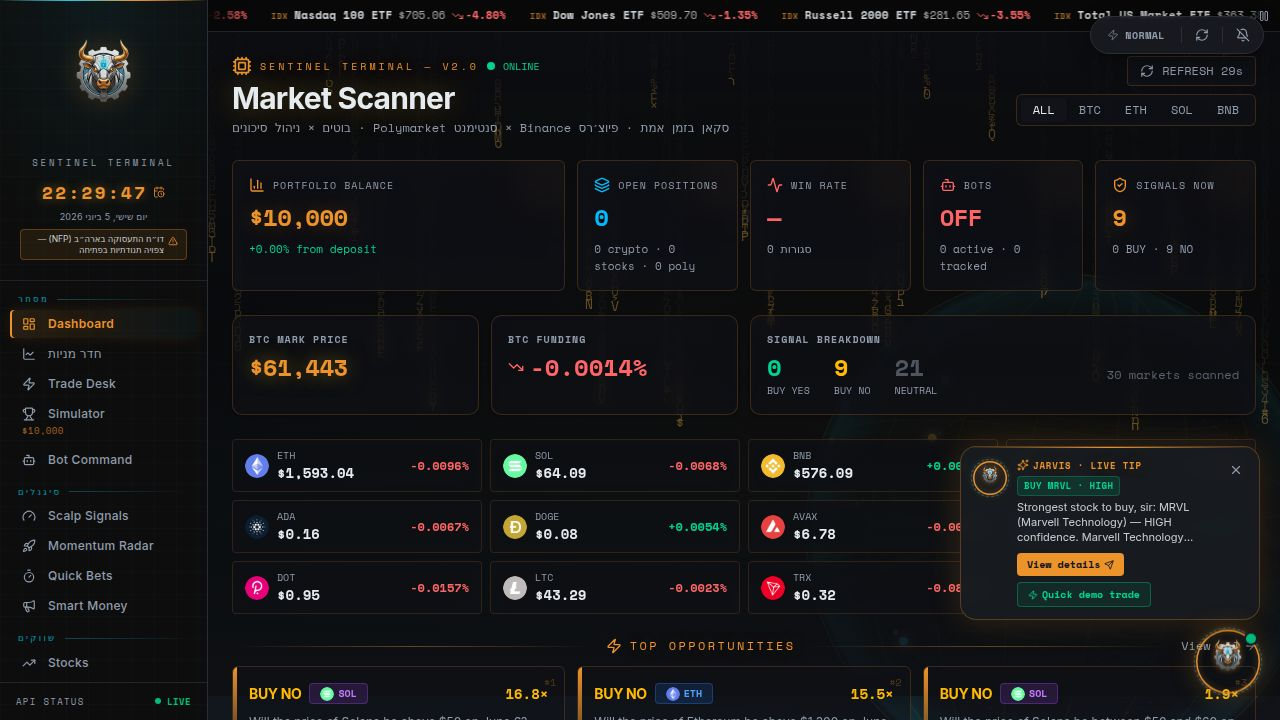
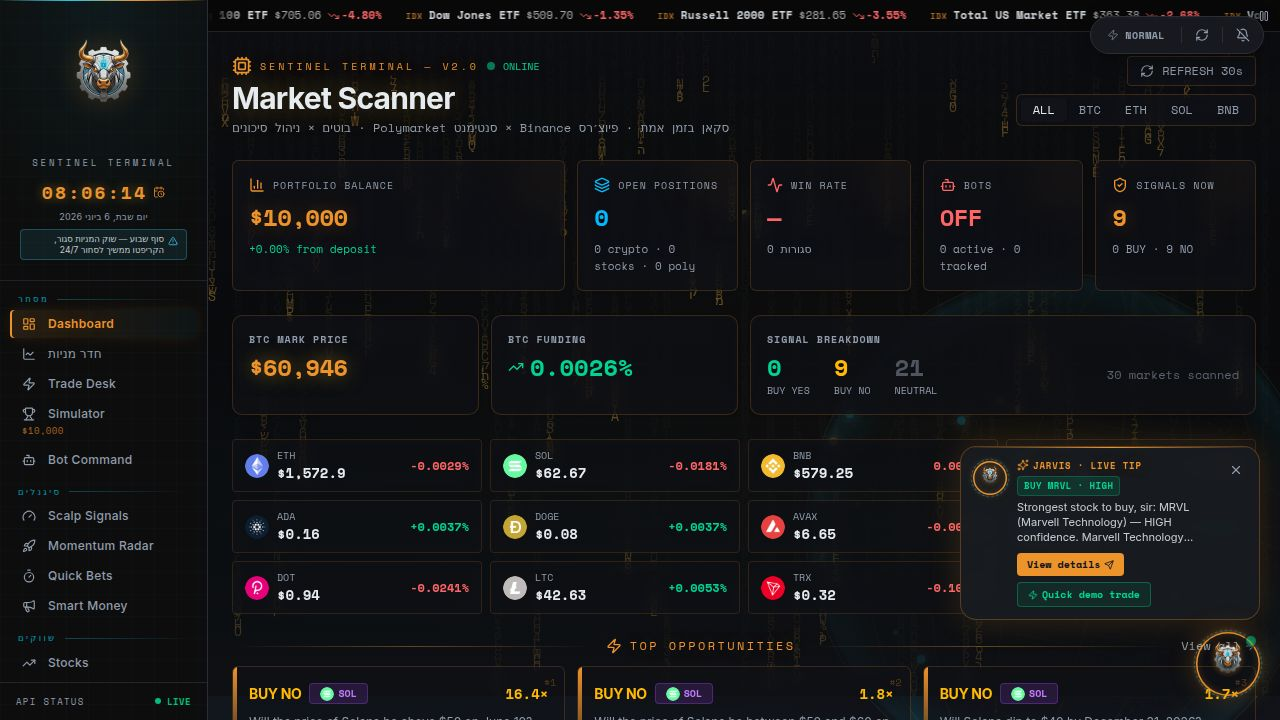
Add Auto-Pilot functionality and refine light-speed cancel behavior
Introduce Auto-Pilot mode with a master toggle to automate trading decisions and adjust the "cancel light-speed" feature to stop boost mode without disarming bots.

Replit-Commit-Author: Agent
Replit-Commit-Session-Id: bf375281-ba89-49a9-b75c-c68e906c7744
Replit-Commit-Checkpoint-Type: full_checkpoint
Replit-Commit-Event-Id: 2a18e1f6-e237-4f69-930e-74c519210797
Replit-Commit-Screenshot-Url: https://storage.googleapis.com/screenshot-production-us-central1/078159b9-df19-4eea-b399-6c4569ff1430/bf375281-ba89-49a9-b75c-c68e906c7744/NMPN6un
Replit-Helium-Checkpoint-Created: true

diff --git a/artifacts/crypto-arb/src/pages/bots.tsx b/artifacts/crypto-arb/src/pages/bots.tsx
@@ -2,7 +2,7 @@ import { useMemo, useState, useEffect } from "react";
 import {
   Bot, Power, Gauge, Rocket, Megaphone, Timer, TrendingDown, TrendingUp,
   Layers, Brain, RotateCcw, Activity, ShieldCheck, ShieldAlert, Scissors, Zap, Square, Cpu,
-  Network, ArrowUpRight, ArrowDownRight, Minus, Trophy, Siren, Crosshair, Turtle, Rabbit,
+  Network, ArrowUpRight, ArrowDownRight, Minus, Trophy, Siren, Crosshair, Turtle, Rabbit, Sparkles,
 } from "lucide-react";
 import { Switch } from "@/components/ui/switch";
 import { Button } from "@/components/ui/button";
@@ -308,6 +308,60 @@ export default function Bots() {
     });
   };
 
+  // ── Cancel "light speed" — end the boost flood but KEEP trading calmly ──
+  // Turning light-speed off must NOT stop the bots: they keep trading at the
+  // normal, considered cadence (one sensible trade per opportunity, no flooding
+  // many micro-trades onto the same position). Positions stay open; bots stay
+  // armed. The full kill remains available via the separate "עצירת חירום" button.
+  const cancelLightSpeed = () => {
+    if (!boostActive) {
+      toast({
+        title: "מהירות האור כבר כבויה",
+        description: "הבוטים סוחרים בקצב רגיל ושקול.",
+      });
+      return;
+    }
+    stopBoost();
+    toast({
+      title: "מהירות האור בוטלה",
+      description: "הבוטים ממשיכים לסחור בקצב רגיל — עסקה אחת הגיונית לכל הזדמנות, בלי הצפה.",
+    });
+  };
+
+  // ── Auto-Pilot ("אוטומטי") — one switch hands every trade decision to the system ──
+  // When on, the engines size every trade themselves (margin, leverage and stake
+  // from portfolio health/win-rate), set their own SL/TP, and run the full
+  // management stack (smart exits, trailing, adaptive selectivity, risk manager,
+  // daily loss guard). Paper-trading/educational only. Turning it on also arms
+  // every bot so it is genuinely hands-off.
+  const autoPilotOn = settings.autoPilotEnabled;
+  const toggleAutoPilot = () => {
+    if (autoPilotOn) {
+      update({ autoPilotEnabled: false });
+      toast({
+        title: "מצב אוטומטי כבוי",
+        description: "ההגדרות שנבחרו נשארות — אפשר לכוונן כל פרמטר ידנית.",
+      });
+      return;
+    }
+    update({
+      autoPilotEnabled: true,
+      dynamicCapitalEnabled: true,
+      smartExitEnabled: true,
+      trailingEnabled: true,
+      adaptiveEnabled: true,
+      riskManagerEnabled: true,
+      alphaCoordinatorEnabled: true,
+      catastrophicExitEnabled: true,
+      dailyStopEnabled: true,
+    });
+    armAll(true);
+    toast({
+      title: "מצב אוטומטי מופעל",
+      description: "המערכת מנהלת הכל לבד — מינוף, גודל עסקה, SL/TP וכל הפרמטרים נקבעים פר עסקה.",
+    });
+  };
+
   const totalOpenAuto = binancePositions.filter((p) => p.auto).length +
     stockPositions.filter((p) => p.auto).length + polyPositions.filter((p) => p.auto).length;
 
@@ -327,6 +381,17 @@ export default function Bots() {
           </div>
         </div>
         <div className="flex items-center gap-2 flex-wrap">
+          <Button
+            onClick={toggleAutoPilot}
+            className="gap-2 font-mono font-bold"
+            variant={autoPilotOn ? "default" : "outline"}
+            aria-pressed={autoPilotOn}
+            title="מצב אוטומטי מלא: המערכת קובעת מינוף, גודל עסקה, SL/TP וכל הפרמטרים — פר עסקה"
+            style={autoPilotOn ? { boxShadow: "0 0 18px hsl(43 74% 52% / 0.5)" } : undefined}
+          >
+            <Sparkles className="h-4 w-4" />
+            {autoPilotOn ? "אוטומטי פעיל" : "אוטומטי"}
+          </Button>
           {boostActive ? (
             <div
               className="flex items-center gap-2 rounded-md border px-3 py-1.5 animate-pulse"
@@ -378,13 +443,23 @@ export default function Bots() {
             {anyOn ? "כבה הכול" : "הפעל הכול"}
           </Button>
           <Button
+            onClick={cancelLightSpeed}
+            variant="outline"
+            className="gap-2 font-mono border-primary/60 text-primary hover:bg-primary/10"
+            title="ביטול מהירות האור: הבוטים ממשיכים לסחור בקצב רגיל ושקול (לא עוצר את המסחר)"
+          >
+            <Gauge className="h-4 w-4" />
+            ביטול מהירות האור
+          </Button>
+          <Button
             onClick={emergencyStop}
-            variant="destructive"
-            className="gap-2 font-mono font-bold animate-none border border-red-400/60 shadow-[0_0_18px_hsl(0_72%_51%/0.45)]"
+            variant="ghost"
+            size="sm"
+            className="gap-1.5 font-mono text-red-400 hover:text-red-300 hover:bg-red-500/10"
             title="עצירת חירום: מכבה את כל הבוטים וסוגר מיד את כל פוזיציות הבוט"
           >
             <Siren className="h-4 w-4" />
-            ביטול במהירות האור
+            עצירת חירום
           </Button>
         </div>
       </header>

diff --git a/artifacts/crypto-arb/src/components/autotrader-engine.tsx b/artifacts/crypto-arb/src/components/autotrader-engine.tsx
@@ -744,7 +744,12 @@ export function AutoTraderEngine() {
     };
     const btcBias = changeFor("BTC");
 
-    if (settings.polyStakePerBet <= 0) return;
+    // Auto-Pilot / Account-Manager: size each bet dynamically from portfolio
+    // health; otherwise use the user's fixed stake.
+    const polyStake = settings.dynamicCapitalEnabled
+      ? computeDynamicSizing(cash, totalDeposited, tradeHistory, settings.cashFloorPct).margin
+      : settings.polyStakePerBet;
+    if (!(polyStake > 0)) return;
     // Account Manager cash reserve: never commit below the protected floor.
     const cashFloor = cashReserveFloor(totalDeposited, settings.cashFloorPct);
     let openBets = polyPositions.length;
@@ -763,7 +768,7 @@ export function AutoTraderEngine() {
 
     for (const m of candidates) {
       if (openBets >= polyMaxOpen) break;
-      if (availableCash - settings.polyStakePerBet < cashFloor) break;
+      if (availableCash - polyStake < cashFloor) break;
 
       const asset = assetForQuestion(m.question)!;
       const bias = changeFor(asset) ?? btcBias;
@@ -789,17 +794,17 @@ export function AutoTraderEngine() {
           auto: true,
           source: "Polymarket BTC",
         },
-        settings.polyStakePerBet,
+        polyStake,
         cashFloor,
       );
       if (err) continue;
 
       polyCooldownRef.current[m.conditionId] = nowMs;
-      availableCash -= settings.polyStakePerBet;
+      availableCash -= polyStake;
       openBets += 1;
       toast({
         title: `${asset} Bet · ${side} (${bullish ? "bullish" : "bearish"})`,
-        description: `$${settings.polyStakePerBet} @ ${entryPrice.toFixed(2)} · ${m.question.slice(0, 80)}`,
+        description: `$${polyStake} @ ${entryPrice.toFixed(2)} · ${m.question.slice(0, 80)}`,
       });
     }
     // eslint-disable-next-line react-hooks/exhaustive-deps

diff --git a/artifacts/crypto-arb/src/contexts/autotrader-context.tsx b/artifacts/crypto-arb/src/contexts/autotrader-context.tsx
@@ -280,6 +280,10 @@ export interface AutoTraderSettings {
   /** When true the engine overrides all margin/leverage/stake settings with a
    *  rule-based formula derived from portfolio value, health, and recent win-rate. */
   dynamicCapitalEnabled: boolean;
+  /** Auto-Pilot: one master switch that hands every per-trade decision to the
+   *  system — position sizing, leverage, SL/TP and the full management stack —
+   *  so the whole fleet runs fully hands-off. Paper-trading/educational only. */
+  autoPilotEnabled: boolean;
   /** Cash committed as margin per auto trade (USD). */
   marginPerTrade: number;
   leverage: number;
@@ -474,6 +478,7 @@ export interface AutoTraderSettings {
 export const DEFAULT_SETTINGS: AutoTraderSettings = {
   enabled: false,
   dynamicCapitalEnabled: false,
+  autoPilotEnabled: false,
   marginPerTrade: 100,
   leverage: 3,
   minConfidence: "HIGH",

diff --git a/.agents/memory/autopilot-and-light-speed.md b/.agents/memory/autopilot-and-light-speed.md
@@ -1,0 +1,30 @@
+---
+name: Auto-Pilot & cancel light-speed (bots page)
+description: How the Auto-Pilot master toggle and the "cancel light-speed" control behave, and why over-trading was a boost-only problem.
+---
+
+# Over-trading was BOOST-only, not a normal-mode bug
+Every auto open-loop already blocks a 2nd position on an asset it already holds
+(crypto `!openAssets`, stock `!openSymbols`, poly `!openConditions`, dip/breakout
+`!openAssets`) and uses a long normal cooldown (crypto/stock 10min, poly 30min).
+The "many trades flooding one position" feeling comes ONLY from BOOST / "light
+speed" mode: it collapses cooldowns to ~4s and recycles tiny-tick profits.
+
+**Why:** user reported flooding; the durable lesson is that the fix is to end
+boost, NOT to add more guards or stop trading.
+
+**How to apply:** "ביטול מהירות האור" = `stopBoost()` only — keep bots armed and
+positions open (calm normal cadence). Keep the FULL kill (close all + disarm) as a
+separate, less-prominent "עצירת חירום" button so the safety isn't lost.
+
+# Auto-Pilot ("אוטומטי") is a convenience macro, not a new engine path
+The toggle flips on `autoPilotEnabled` + `dynamicCapitalEnabled` + the whole
+management stack (smartExit/trailing/adaptive/riskManager/alphaCoordinator/
+catastrophicExit/dailyStop) and arms all bots in one click. Sizing/leverage/SL-TP
+are then decided per trade by the existing `computeDynamicSizing` + recommendLevels
+paths — no separate "auto" code path. Turning it off only clears the marker (leaves
+tuned switches) to avoid a contradictory state.
+
+**How to apply:** to make a bot loop respect Auto-Pilot sizing, just have it honor
+`dynamicCapitalEnabled` (poly was the last loop wired this way). Paper-trading only;
+never add win-rate/return promises.

diff --git a/.agents/memory/MEMORY.md b/.agents/memory/MEMORY.md
@@ -31,3 +31,4 @@
 - [Bot loss diagnosis](bot-loss-diagnosis.md) — why paper bots booked big losses/tiny gains; the risk-budget + leverage + always-set-SL principles that fix it.
 - [Calendar cell selection](calendar-cell-selection.md) — padded grid cells must carry their own absolute year/month or clicking a spillover day maps to the wrong date; never freeze "today" in state.
 - [Stock Desk & expensive rate limit](stock-desk-and-rate-limit.md) — /stock-desk one-window aggregator; recs backfill HOLD to a min count; 12/min expensiveRateLimit trips on dev reload+curl bursts → transient 429/empty, wait 60s not loosen
+- [Auto-Pilot + cancel light-speed](autopilot-and-light-speed.md) — "אוטומטי" master flips all mgmt switches + dynamicCapital + arms all; light-speed=BOOST is the only real flooding source (normal loops already 1-pos/asset + 10min cooldown), so cancel = stopBoost (keep armed), full kill stays separate.